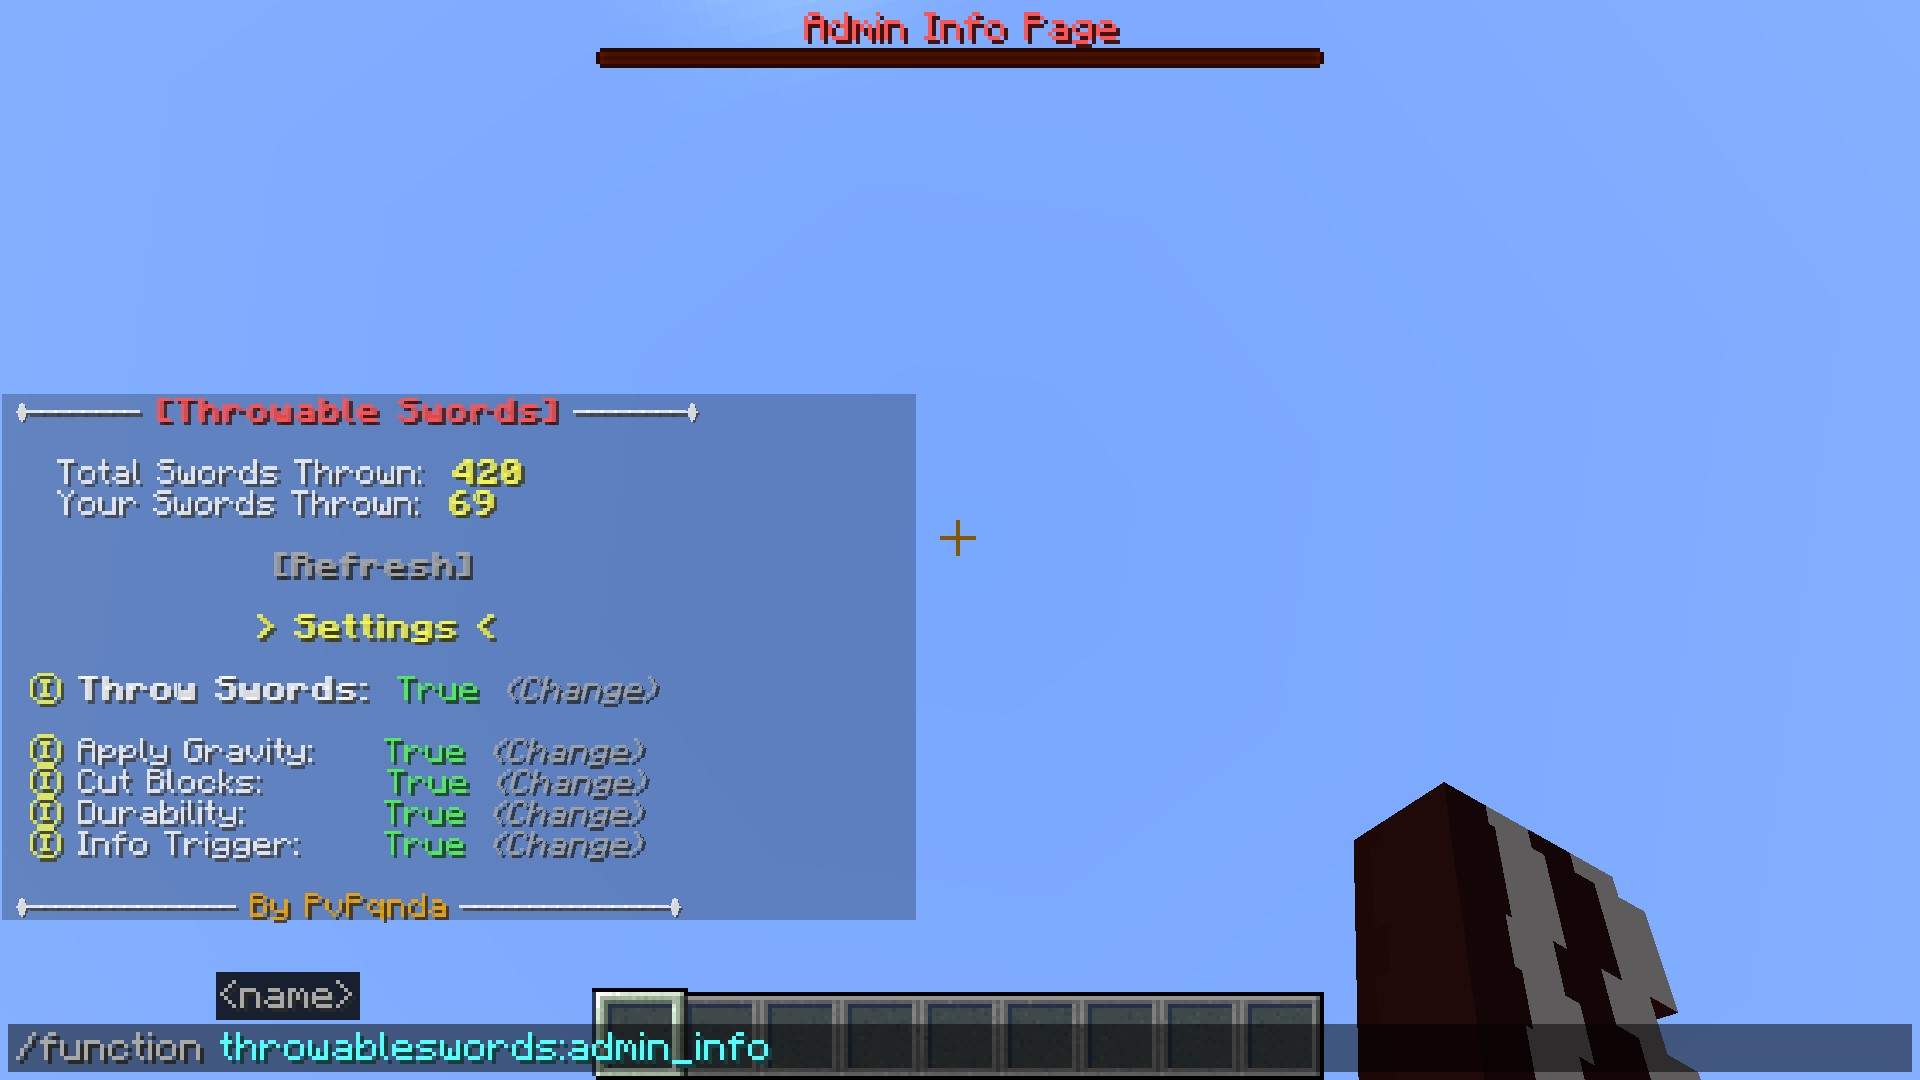
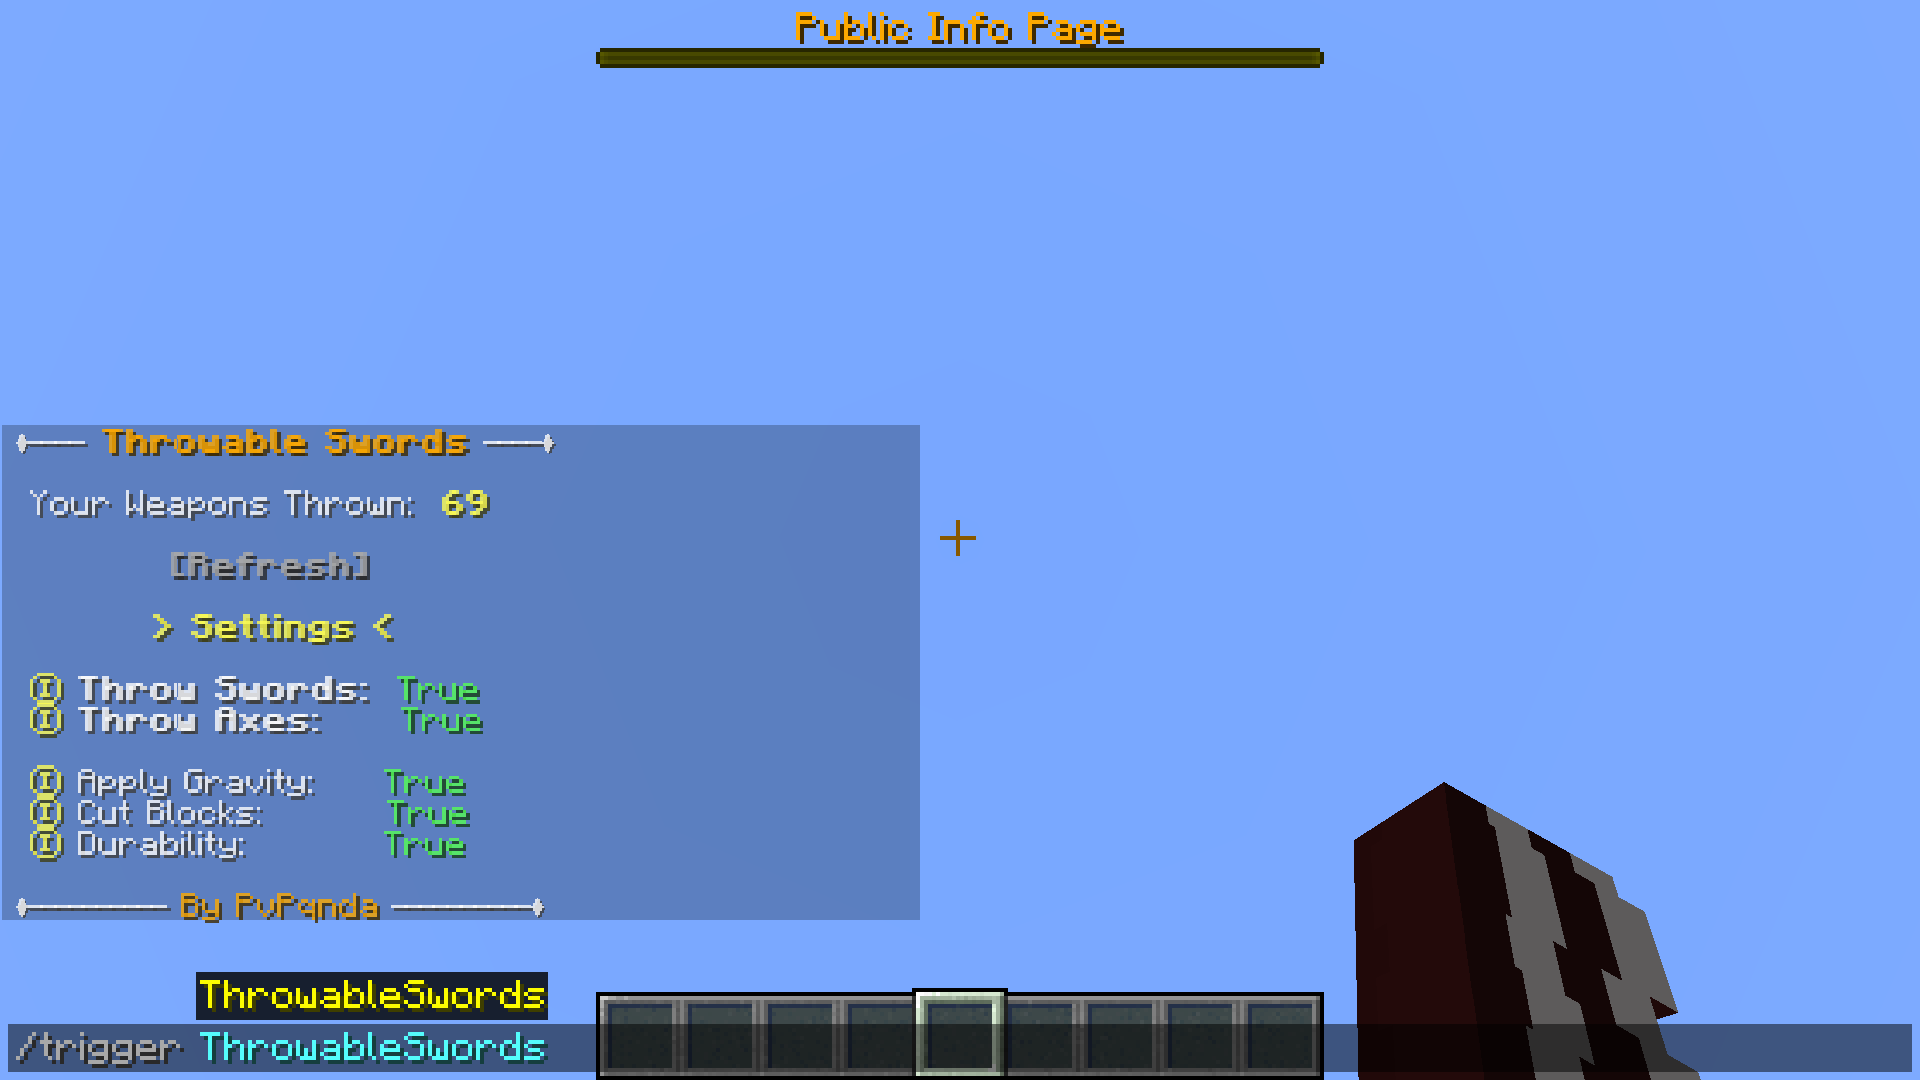
updated datapack throwable swords to v2.0.0

diff --git a/index.html b/index.html
@@ -5,7 +5,7 @@ background: '/img/bg-index.jpg'
 <div class="container">
 Welcome to PvPqnda's website! Here, you can find all the information you need about my maps, and how to play them!<br>
 Recent Updates:
-<a href="/datapacks/shulker-chests" target="_blank"style="text-decoration: underline;">Shulker Chests<a> - <a href="/datapacks/throwable-swords" target="_blank"style="text-decoration: underline;">Throwable Swords<a></a><br>
+<a href="/datapacks/throwable-swords" target="_blank"style="text-decoration: underline;">Throwable Swords v2.0.0<a></a> - <a href="/datapacks/shulker-chests" target="_blank"style="text-decoration: underline;">Shulker Chests v1.0.1<a></a><br>
 Newest Post:
 <a href="/datapacks/muted-mobs" target="_blank"style="text-decoration: underline;">Muted Mobs<a>
 <hr>

diff --git a/_posts/0000-00-00-throwable-swords.md b/_posts/0000-00-00-throwable-swords.md
@@ -2,10 +2,10 @@
 layout: datapack
 title: "Throwable Swords"
 permalink: /datapacks/throwable-swords
-date: 2021-09-21
-short-description: "Want to be able to throw your swords like tridents? Now you can."
+date: 2021-10-01
+short-description: "Want to be able to throw your swords and axes like tridents? Now you can."
 trailer: "https://youtu.be/UobKdnHP96Q"
-version: 1.1.1
+version: 2.0.0
 download: "/downloads/datapacks/Throwable Swords.zip"
 ---
 Created by: PvPqnda
@@ -14,26 +14,37 @@ Created by: PvPqnda
 
 **Datapack Features:**
 
-- This datapack allows any sword to be thrown at mobs or blocks! The sword will drop back as an item once it hits something! *Supports item NBT data!*
+- This datapack allows any sword or axe to be thrown at mobs or blocks! The weapon will drop back as an item once it hits something!<br>
+*Supports item NBT data!*
 
-- To throw a sword, simply drop it while holding it!
+- To throw a sword or axe, simply drop it while holding it!
 
-- Thrown swords damage mobs and players, break glass, cut grass, and more!
+- Thrown weapons damage mobs and players, break glass, cut grass, and more!
 
 - Thrown swords enchanted with fire aspect will still respectively catch whatever mob it hits on fire!
 
-- Thrown swords will still lose durability upon landing!
+- Thrown weapons still lose durability upon landing!
 
-- There are 5 customizable settings to access using the command:<br>
+- There are 6 customizable settings to access using the command:<br>
 "/function throwableswords:admin_info"<br>
-*(only players with operator permissions can access this page)*
+*(Only players with operator permissions can access this page)*
 
-- Anyone is able to view how many swords they've thrown, and what settings are enabled/disabled by typing: "/trigger ThrowableSwords"<br>
-*(can be enabled/disabled in the admin info page)*
+- Anyone is able to view how many weapons they've thrown, and what settings are enabled/disabled by typing: "/trigger ThrowableSwords"<br>
+*(Can be enabled/disabled in the admin info page)*
 
 *Survival & Multiplayer friendly*
 <hr>
 **Changelog:**
+
+**v2.0.0** - *October 1, 2021*
+
+- All axes are now able to be thrown for extra damage! (Also added a setting in admin info page so axe and sword throwing can each be toggled individually)
+- Swords and axes now have a pickup delay after they land from being thrown, equivalent to that of the weapon's attack speed/cooldown/delay, for balancing
+- Improved entity hit detection consistency
+- Candles being put out by a thrown weapon now make a subtle sound
+- The public info page is now able to be viewed through the admin info page when disabled to the public
+- Tweaked throwing sounds
+- Performance improvements
 
 **v1.1.1** - *September 21, 2021*
 
